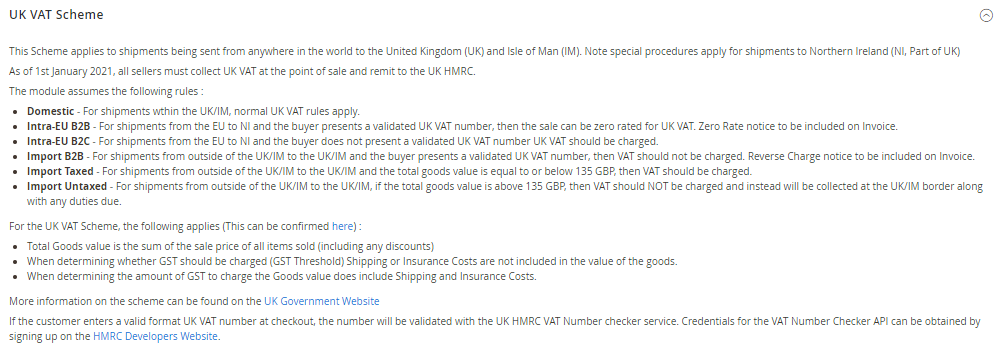
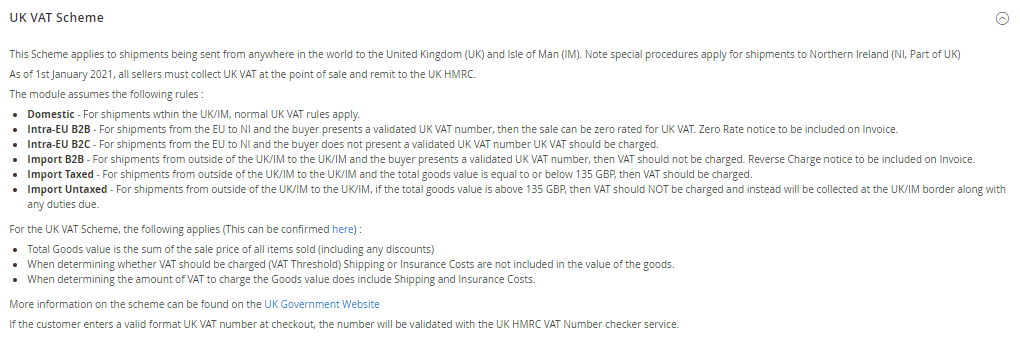
Removed OAuth Authentication from UK VAT Number Checker. API is no open access.

Changed region(s): [[0.0, 0.1166, 0.988, 0.9621], [0.0, 0.0292, 0.1235, 0.0875], [0.9572, 0.0292, 0.988, 0.0875]]

diff --git a/Model/TaxSchemes/UkVat.php b/Model/TaxSchemes/UkVat.php
@@ -8,7 +8,6 @@ use Gw\AutoCustomerGroup\Model\TaxSchemes\EuVat;
 use Magento\Directory\Model\CurrencyFactory;
 use Magento\Framework\App\Config\ScopeConfigInterface;
 use Magento\Framework\DataObject;
-use Magento\Framework\FlagManager;
 use Magento\Framework\Serialize\Serializer\Json;
 use Magento\Framework\Stdlib\DateTime\DateTime;
 use Magento\Framework\Webapi\Rest\Request;
@@ -40,11 +39,6 @@ class UkVat extends AbstractTaxScheme
     protected $schemeCountries = ['GB','IM'];
 
     /**
-     * @var FlagManager
-     */
-    private $flagManager;
-
-    /**
      * @var ClientFactory
      */
     private $clientFactory;
@@ -59,12 +53,9 @@ class UkVat extends AbstractTaxScheme
      */
     private $euVat;
 
-    const ACCESS_TOKEN_PATH = 'autocustomergroup/hmrc/accesstoken';
-
     /**
      * @param ScopeConfigInterface $scopeConfig
      * @param ClientFactory $clientFactory
-     * @param FlagManager $flagManager
      * @param Json $serializer
      * @param DateTime $datetime
      * @param LoggerInterface $logger
@@ -75,7 +66,6 @@ class UkVat extends AbstractTaxScheme
     public function __construct(
         ScopeConfigInterface $scopeConfig,
         ClientFactory $clientFactory,
-        FlagManager $flagManager,
         Json $serializer,
         DateTime $datetime,
         LoggerInterface $logger,
@@ -91,7 +81,6 @@ class UkVat extends AbstractTaxScheme
             $currencyFactory
         );
         $this->clientFactory = $clientFactory;
-        $this->flagManager = $flagManager;
         $this->serializer = $serializer;
         $this->euVat = $euVat;
     }
@@ -213,15 +202,6 @@ class UkVat extends AbstractTaxScheme
             'request_message' => __('Error during VAT Number verification.'),
         ]);
 
-        $accesstoken = $this->loadAccessToken();
-        if (!$accesstoken) {
-            $accesstoken = $this->getAccessToken();
-        }
-        if (!$accesstoken) {
-            $this->logger->critical("AutoCustomerGroup::UKVat No Access Token.");
-            return $gatewayResponse;
-        }
-
         $registrationNumber = $this->scopeConfig->getValue(
             "autocustomergroup/" . self::CODE . "/registrationnumber",
             ScopeInterface::SCOPE_STORE
@@ -240,8 +220,7 @@ class UkVat extends AbstractTaxScheme
                     str_replace([' ', '-', 'GB'], ['', '', ''], $registrationNumber),
                 [
                     'headers' => [
-                        'Accept' => "application/vnd.hmrc.1.0+json",
-                        "Authorization" => 'Bearer ' . $accesstoken['access_token']
+                        'Accept' => "application/vnd.hmrc.1.0+json"
                     ]
                 ]
             );
@@ -273,73 +252,6 @@ class UkVat extends AbstractTaxScheme
             }
         }
         return $gatewayResponse;
-    }
-
-    /**
-     * Load access token from the flag database if one exists
-     *
-     * @return void|array
-     */
-    private function loadAccessToken()
-    {
-        if (!$this->flagManager->getFlagData(self::ACCESS_TOKEN_PATH)) {
-            return null;
-        }
-        $accesstoken = $this->serializer->unserialize(
-            $this->flagManager->getFlagData(self::ACCESS_TOKEN_PATH)
-        );
-        //Has access token expired
-        if (($accesstoken['access_token_issue_time'] + $accesstoken['expires_in'] - 10) <
-            $this->datetime->gmtTimestamp()
-        ) {
-            return null;
-        }
-        return $accesstoken;
-    }
-
-    /**
-     * Retrieve new access token from HMRC server
-     *
-     * @return void|array
-     */
-    private function getAccessToken()
-    {
-        $clientId = $this->scopeConfig->getValue(
-            "autocustomergroup/" . self::CODE . "/clientid",
-            ScopeInterface::SCOPE_STORE
-        );
-        $clientSecret = $this->scopeConfig->getValue(
-            "autocustomergroup/" . self::CODE . "/clientsecret",
-            ScopeInterface::SCOPE_STORE
-        );
-        if (!$clientId && !$clientSecret) {
-            $this->logger->critical("AutoCustomerGroup::UKVat ClientID and ClientSecret are not set.");
-            return null;
-        }
-        $client = $this->clientFactory->create();
-        try {
-            $response = $client->request(
-                Request::HTTP_METHOD_POST,
-                $this->getBaseUrl() . "/oauth/token",
-                [
-                    'headers' => [
-                        'Content-Type' => "application/x-www-form-urlencoded"
-                    ],
-                    'body' =>   'client_secret=' . $clientSecret . '&' .
-                                'client_id=' . $clientId . '&' .
-                                'grant_type=client_credentials&'
-                ]
-            );
-            $responseBody = $response->getBody();
-            $accesstoken = $this->serializer->unserialize($responseBody->getContents());
-            $ts = $this->datetime->gmtTimestamp();
-            $accesstoken['access_token_issue_time'] = $ts;
-            $this->flagManager->saveFlag(self::ACCESS_TOKEN_PATH, $this->serializer->serialize($accesstoken));
-            return $accesstoken;
-        } catch (BadResponseException $e) {
-            $this->logger->critical("AutoCustomerGroup::UKVat Unable to get Access Token from HMRC.");
-            return null;
-        }
     }
 
     /**

diff --git a/README.md b/README.md
@@ -55,8 +55,6 @@ it, the customer is presented with a prompt above the input field, notifying wha
 <ul>
 <li><b>Enabled</b> - Enable/Disable this Scheme.</li>
 <li><b>Environment</b> - Whether to use the Sandbox or Production servers for the HMRC VAT Validation Service.</li>
-<li><b>Client ID</b> - Client ID as provided by HMRC Developer Portal.</li>
-<li><b>Client Secret</b> - Client Secret as provided by HMRC Developer Portal.</li>
 <li><b>VAT Registration Number</b> - The UK VAT Registration Number for the Merchant. This will be provided to HMRC when all validation checks are made.</li>
 <li><b>Import VAT Threshold</b> - If the order value is above the VAT Threshold, no VAT should be charged.</li>
 <li><b>Use Magento Exchange Rate</b> - To convert from GBP Threshold to Store Currency Threshold, should we use the Magento Exchange Rate, or our own.</li>
@@ -148,16 +146,10 @@ identify the correct rates applied to the order.</li>
 
     use Gw\AutoCustomerGroup\Api\Data\TaxSchemeInterface;
     use Gw\AutoCustomerGroup\Api\GetTaxRatesFromOrderInterface;
-    use Gw\AutoCustomerGroup\Model\TaxSchemes;
 
     ...
     ...
     ...
-
-    /**
-     * @var TaxSchemes
-     */
-    private $taxSchemes;
 
     /**
      * @var GetTaxRatesFromOrderInterface
@@ -188,10 +180,8 @@ identify the correct rates applied to the order.</li>
     }
 </code></pre>
 <h2>Integration Tests</h2>
-<p>To run the integration tests, you need your own credentials for the UK Sandbox and Australian ID Checker services. Please
+<p>To run the integration tests, you need your own credentials for the Australian ID Checker services. Please
 add them to config-global.php. The tests for UK (Sandbox), EU and Australia use the live API's</p>
 <ul>
-<li>autocustomergroup/ukvat/clientid'</li>
-<li>autocustomergroup/ukvat/clientsecret'</li>
 <li>autocustomergroup/australiagst/apiguid'</li>
 </ul>
